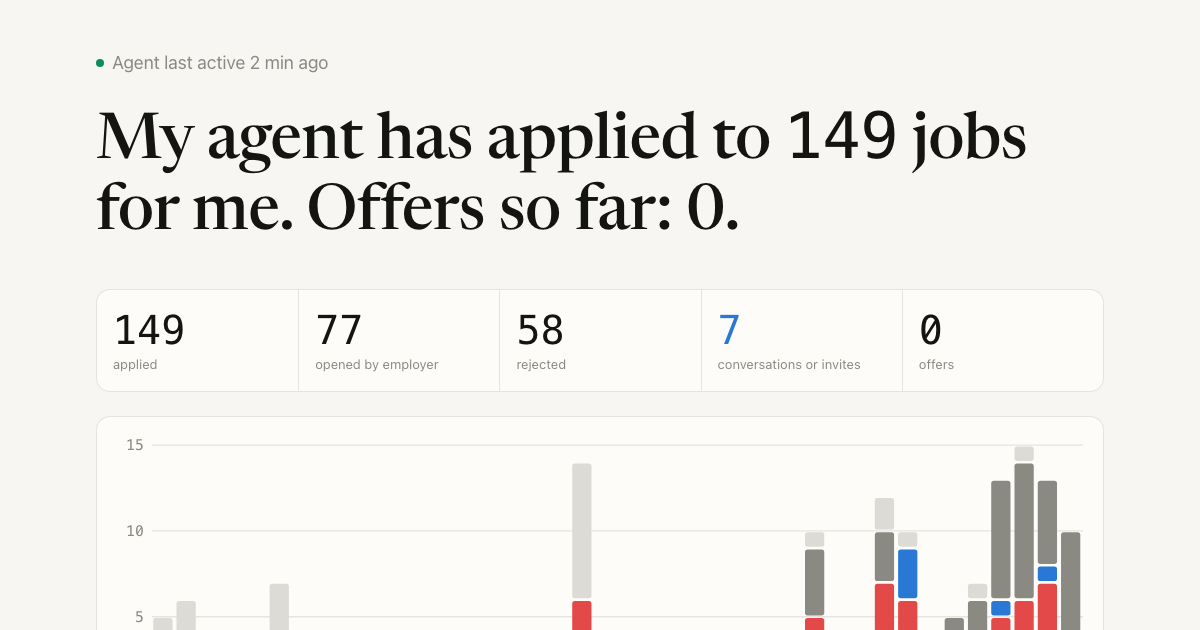
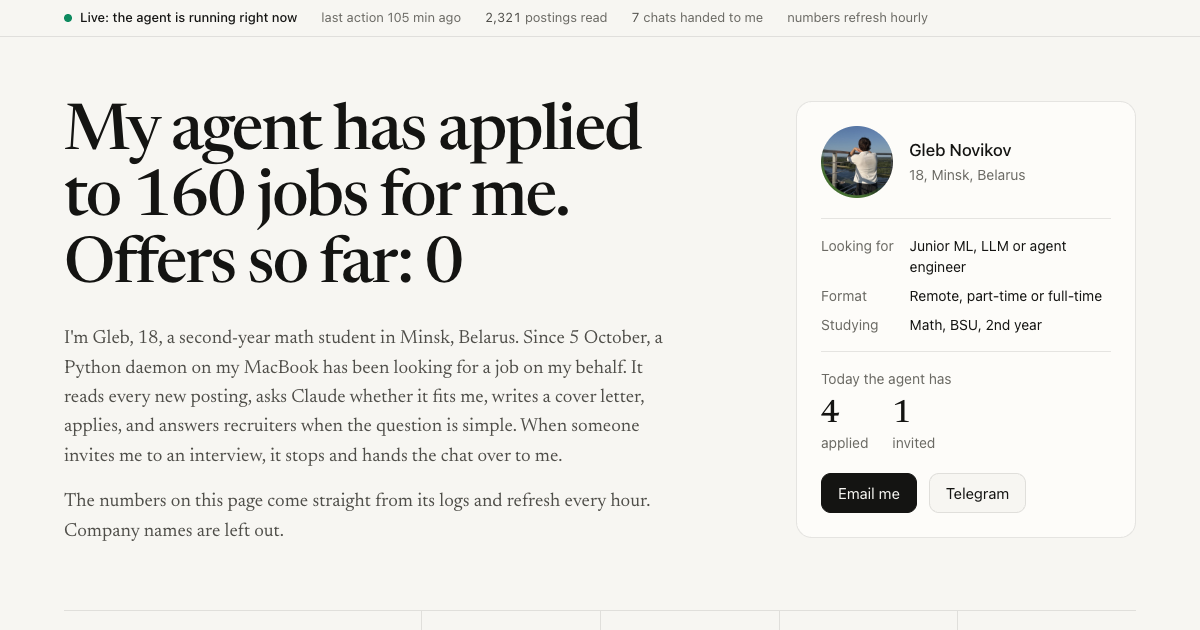
og image with current numbers

diff --git a/index.html b/index.html
@@ -7,7 +7,7 @@
 <meta name="description" content="An 18-year-old math student in Minsk built an agent that applies to jobs for him. Live numbers from its logs, updated every hour.">
 <meta property="og:title" content="My agent has applied to jobs for me. Offers so far: 0">
 <meta property="og:description" content="Live numbers from a job-hunting agent built by a math student in Belarus, updated every hour. Including the part where Claude's judgment did no better than a coin flip.">
-<meta property="og:image" content="https://nivokvo.github.io/job-agent/og.png">
+<meta property="og:image" content="https://nivokvo.github.io/job-agent/og.png?v=1117">
 <meta property="og:url" content="https://nivokvo.github.io/job-agent/">
 <meta name="twitter:card" content="summary_large_image">
 <link rel="preconnect" href="https://fonts.googleapis.com">
